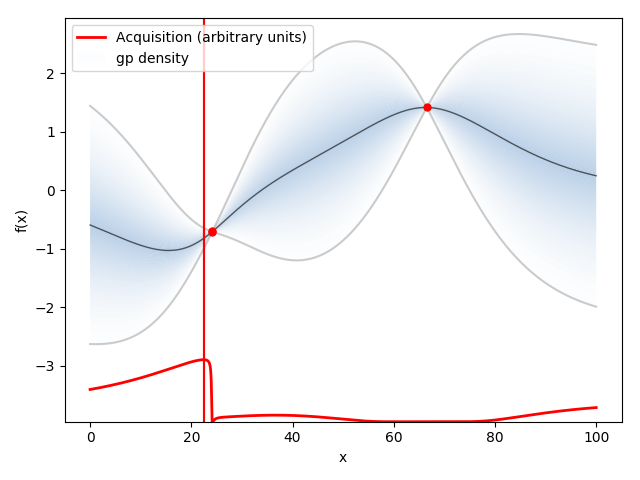
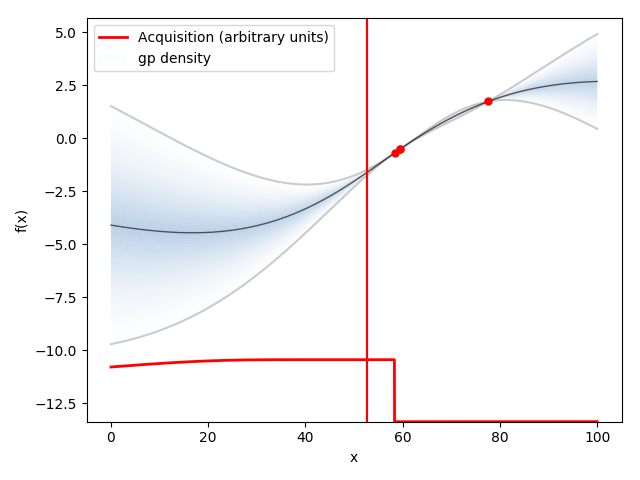
Added acquisiton function plotting for n-th step in optimization

diff --git a/lib/BayesOpt.py b/lib/BayesOpt.py
@@ -11,7 +11,7 @@ def optimize(p0, data, model_func, lower_bound=None, upper_bound=None,
              verbose=0, flush_delay=0.5, epsilon=1e-3,
              gtol=1e-5, multinom=True, maxiter=1000, full_output=False,
              func_args=[], func_kwargs={}, fixed_params=None, ll_scale=1,
-             output_file=None, output_dir=None, plot_every=None):
+             output_file=None, output_dir=None, plot_every=None, use_bfgs=False):
 
     # passing all parameters to objective function, because gpyopt can't do it itself
     def f_obj_wrapped(x):
@@ -43,27 +43,24 @@ def optimize(p0, data, model_func, lower_bound=None, upper_bound=None,
     acquisition_dir.mkdir(parents=True, exist_ok=True)
     reports_dir.mkdir(parents=True, exist_ok=True)
 
+
     # Running optimization in a loop. Plot acquisition graph every
     # `plot_every` iteration
-    X_step = np.atleast_2d(p0)
+
+    opt = GPyOpt.methods.BayesianOptimization(f_obj_wrapped,
+                                              X=np.atleast_2d(p0),
+                                              domain=bounds,
+                                              acquisition_type='MPI',
+                                              verbosity=True,
+                                              maximize=False,
+                                              num_cores=8
+                                              )
     for current_iter in range(maxiter):
-        opt = GPyOpt.methods.BayesianOptimization(f_obj_wrapped,
-                                                  X=X_step,
-                                                  domain=bounds,
-                                                  acquisition_type='MPI',
-                                                  verbosity=True,
-                                                  maximize=False,
-                                                  num_cores=8
-                                                  )
-
-        x_next = opt.suggest_next_locations()
-        X_step = np.vstack((X_step, x_next))
-
-        if plot_every is not None:
-            if (current_iter % plot_every == 0):
-                opt.plot_acquisition(
-                    (acquisition_dir / 'acquisition_{0:04d}'.format(current_iter)).as_posix()
-                    )
+        opt.run_optimization(max_iter=1)
+        if (plot_every is not None) and (current_iter % plot_every == 0):
+            opt.plot_acquisition(
+                (acquisition_dir / 'acquisition_{0:04d}'.format(current_iter)).as_posix()
+                )
 
     opt.plot_acquisition((plots_dir / "acquisition.png").as_posix())
     opt.plot_convergence((plots_dir / "convergence.png").as_posix())
@@ -72,11 +69,11 @@ def optimize(p0, data, model_func, lower_bound=None, upper_bound=None,
 
     xopt = BayesInference._project_params_up(opt.x_opt, fixed_params)
    
-    # comment this is fmin_bfgs is not needed
-    xopt = moments.Inference.optimize(xopt, data, model_func,
-                                      lower_bound=lower_bound,
-                                      upper_bound=upper_bound,
-                                      fixed_params=fixed_params,
-                                      maxiter=maxiter,
-                                      verbose=1)
+    if use_bfgs == True:
+        xopt = moments.Inference.optimize(xopt, data, model_func,
+                                        lower_bound=lower_bound,
+                                        upper_bound=upper_bound,
+                                        fixed_params=fixed_params,
+                                        maxiter=maxiter,
+                                        verbose=1)
     return xopt

diff --git a/three_pop_bayes_moments.py b/three_pop_bayes_moments.py
@@ -28,11 +28,12 @@ print('Beginning optimization ************************************************')
 popt = BayesOpt.optimize(p0, data, func,
                          lower_bound=lower_bound,
                          upper_bound=upper_bound,
-                         verbose=1, # print to stdin every k-th line
-                         maxiter=5, # for both gpyopt and moments.optimize
+                         verbose=1,    # print to stdin every k-th line
+                         maxiter=100,  # for both gpyopt and moments.optimize
                          fixed_params=popt1,
-                         output_dir='fixed1',
-                         plot_every=1)
+                         output_dir='cont_acq',
+                         plot_every=1, # plot currenct acquisition
+                         use_bfgs=False)
 print(popt)
 
 print('Finshed optimization **************************************************')
